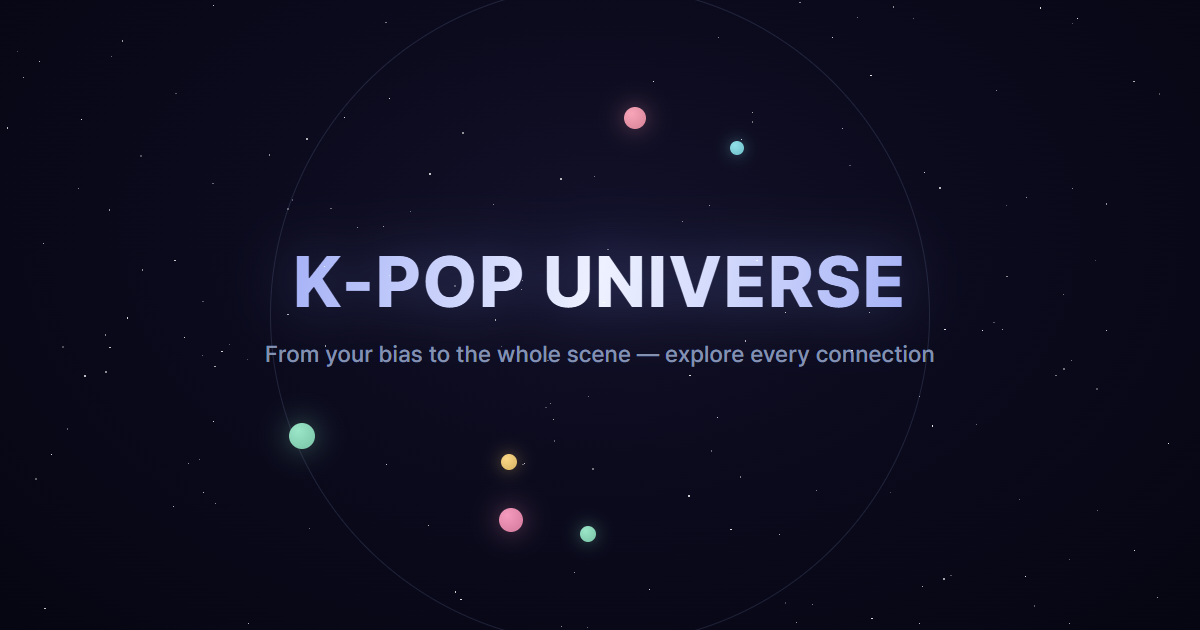
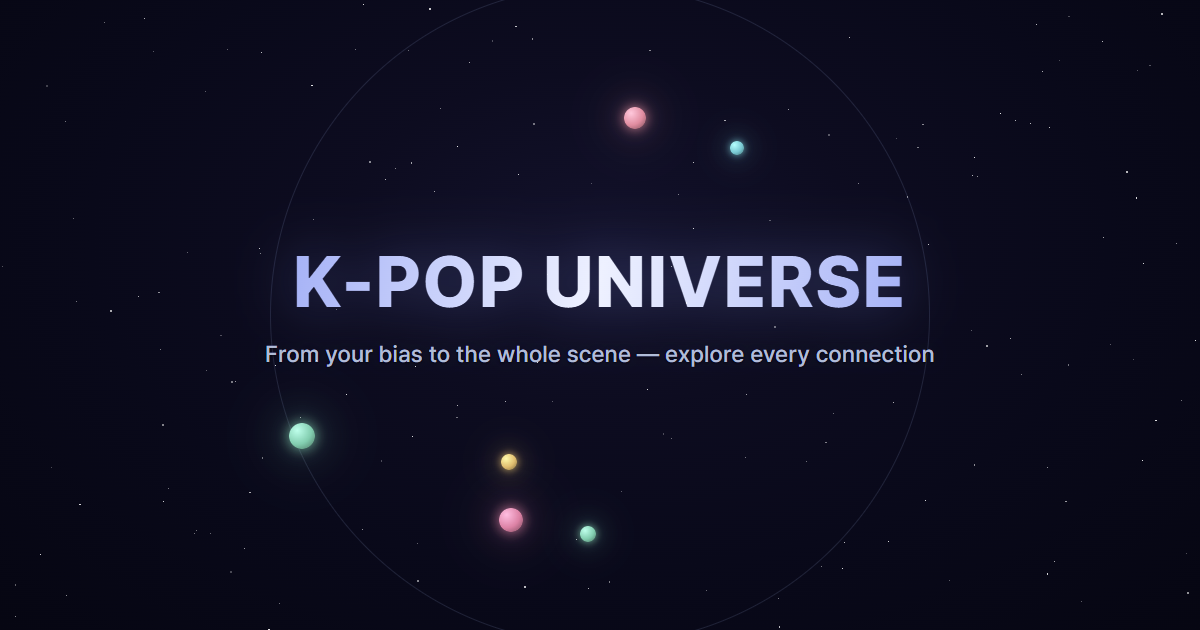
Add files via upload

diff --git a/kpop_universe.html b/kpop_universe.html
@@ -491,6 +491,11 @@
   #gc-grid .row{display:flex;align-items:baseline;}
   #gc-grid .lbl{font-size:13px;color:#9abcd8;min-width:56px;flex-shrink:0;letter-spacing:.02em;}
   #gc-grid .val{font-size:14px;color:#c0d6f0;font-weight:500;}
+  #gc-fandom,#gc-leader{
+    font-size:13px;font-weight:600;letter-spacing:.02em;
+    color:rgba(170,210,255,0.95);
+    text-shadow:0 0 10px rgba(170,210,255,0.6),0 0 4px rgba(170,210,255,0.3);
+  }
   #gc-mem-row{align-items:flex-start;}
   #gc-mem-list{display:flex;flex-wrap:wrap;gap:4px;margin-top:2px;padding-left:4px;}
   .gc-mem-name{